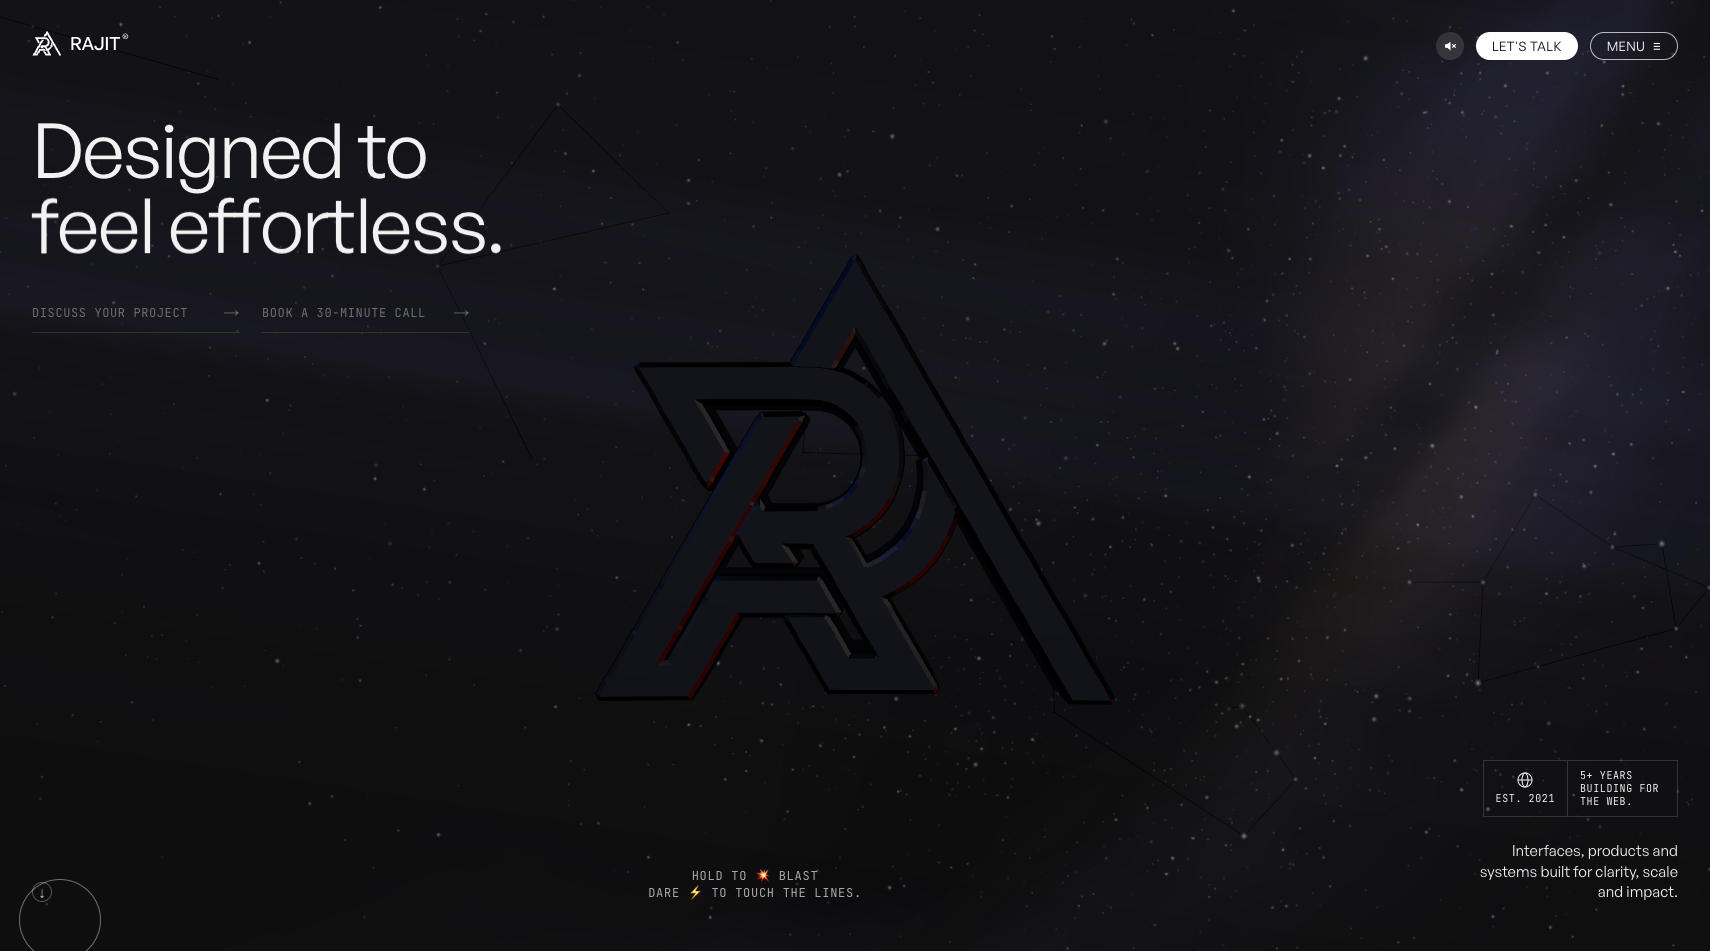
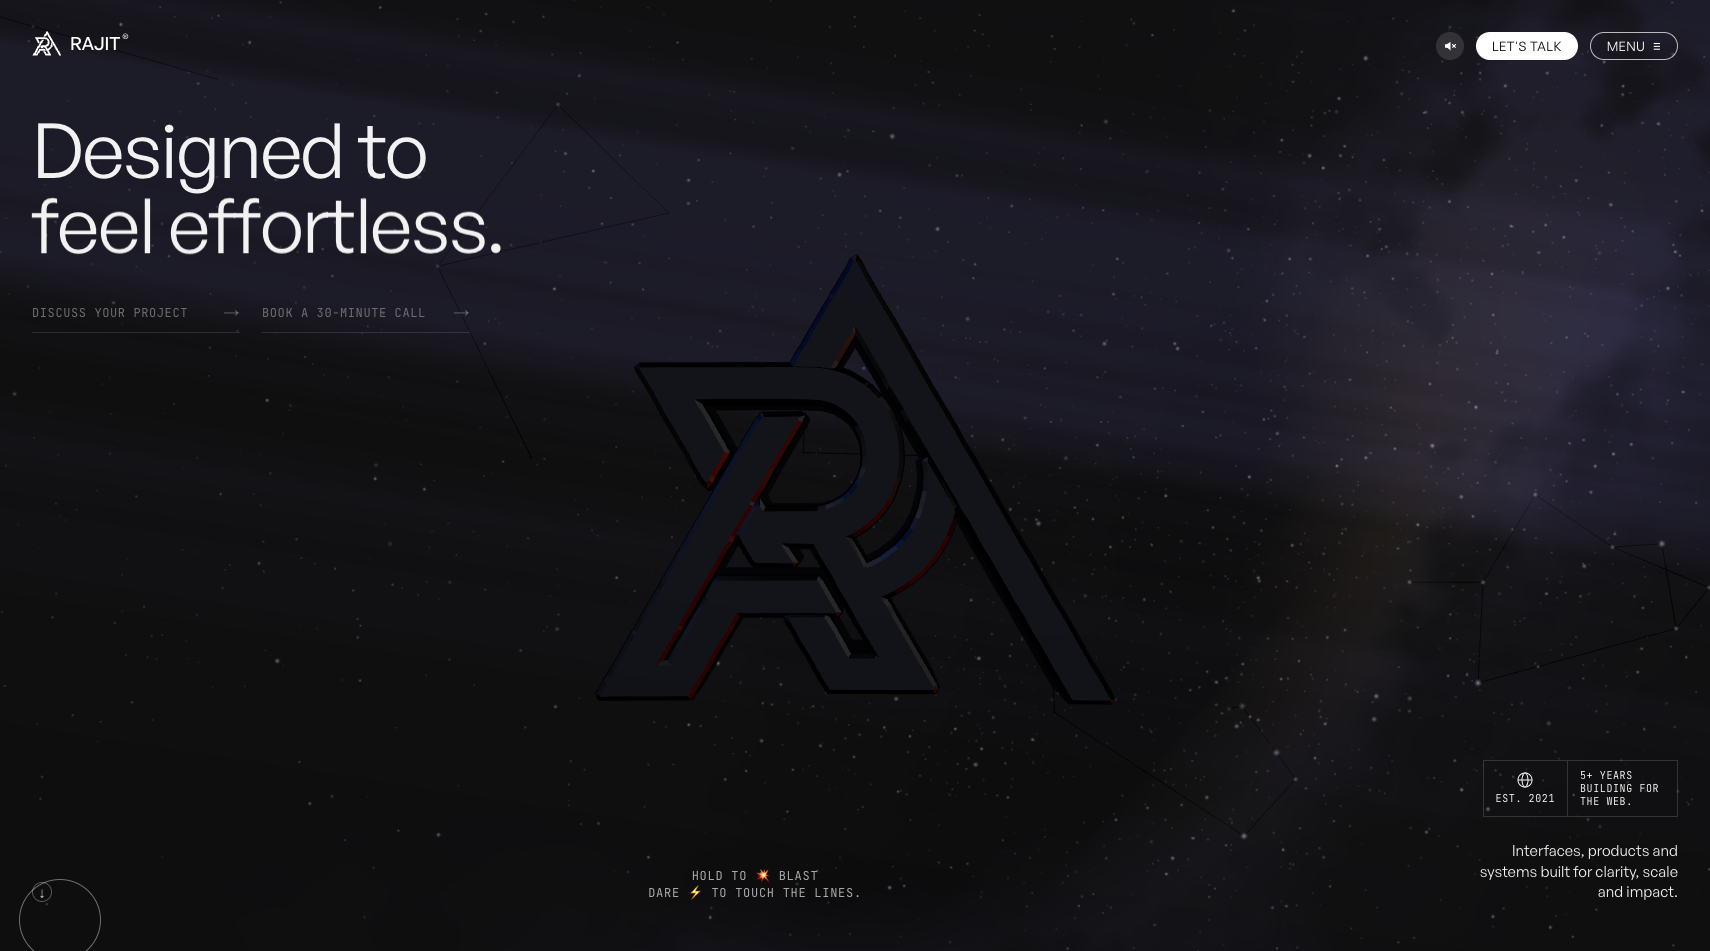
hero: remove the parallel streaks from the Milky Way
The band was drawing long, soft, parallel diagonal lines across the whole
page. Three separate causes, all of them producing the same artefact:

- The brightness profile depended on galactic latitude alone (a narrow
  core plus a wider halo), which is a set of nested stripes running the
  full length of the ribbon by construction. Replaced with one very wide
  wash that barely varies inside the frame, plus a longitude-localised
  bulge; all visible shape now comes from isotropic fBm clumping at three
  scales.
- The ribbon spanned +/-24 deg of latitude against a ~+/-24 deg visible
  field, so its own edge landed in frame as a hard line. Widened to 40.
- noise2 used the usual fract(sin(dot(p, k)) * big) hash. That is a plane
  wave sampled on a lattice: cells whose dot product differs by a period
  get near-identical values, so the field correlates along one fixed
  diagonal regardless of feature scale. Replaced with an integer bit-mix.

Opacity re-tuned 0.115 -> 0.075 for the wider ribbon's coverage.

Changed region(s): [[0.8368, 0.2135, 0.9608, 0.3659], [0.217, 0.2135, 0.2789, 0.2744], [0.093, 0.2135, 0.155, 0.2744]]

diff --git a/src/components/three/ConstellationField.tsx b/src/components/three/ConstellationField.tsx
@@ -439,22 +439,41 @@ function DeepField({ texture }: { texture: THREE.Texture }) {
  * sits where the galaxy actually does and drifts with everything else.
  */
 
-const MW_LAT = 24; // galactic latitude the ribbon spans, degrees
+/**
+ * Latitude the ribbon spans, degrees. The visible field is roughly ±24° tall,
+ * so at 24 the ribbon's own edge landed inside the frame and read as a hard
+ * boundary running the width of the page. Wider than the frame, there is no
+ * edge to see.
+ */
+const MW_LAT = 40;
 const MW_SEGS_L = 240;
-const MW_SEGS_B = 16;
+const MW_SEGS_B = 26;
 const MW_Z = -5.2;
 
-/** Smooth value noise, and fBm over it — enough for a soft cloud. */
-function noise2(x: number, y: number) {
+/**
+ * Smooth value noise, periodic in x. The period matters twice over: it keeps
+ * the texture from seaming where longitude wraps 360 to 0, and it lets the
+ * clump scale be chosen in whole degrees.
+ */
+function noise2(x: number, y: number, periodX: number) {
   const xi = Math.floor(x);
   const yi = Math.floor(y);
   const xf = x - xi;
   const yf = y - yi;
   const sx = xf * xf * (3 - 2 * xf);
   const sy = yf * yf * (3 - 2 * yf);
+  // Integer bit-mix, not the usual fract(sin(dot(p, k))) trick. That hash is a
+  // plane wave sampled on a lattice: neighbouring cells whose dot products land
+  // a whole period apart get near-identical values, so the field correlates
+  // along one fixed diagonal and the noise comes out as long parallel smears.
+  // Those smears were the streaks across the hero.
   const h = (a: number, b: number) => {
-    const n = Math.sin(a * 127.1 + b * 311.7) * 43758.5453;
-    return n - Math.floor(n);
+    const ax = ((a % periodX) + periodX) % periodX;
+    let s = Math.imul(ax | 0, 0x27d4eb2d) ^ Math.imul((b + 4096) | 0, 0x165667b1);
+    s = Math.imul(s ^ (s >>> 15), 0x2c1b3c6d);
+    s = Math.imul(s ^ (s >>> 12), 0x297a2d39);
+    s ^= s >>> 15;
+    return (s >>> 0) / 4294967296;
   };
   const a = h(xi, yi);
   const b = h(xi + 1, yi);
@@ -463,12 +482,12 @@ function noise2(x: number, y: number) {
   return a + (b - a) * sx + (c - a) * sy + (a - b - c + d) * sx * sy;
 }
 
-function fbm(x: number, y: number, octaves = 5) {
+function fbm(x: number, y: number, periodX: number, octaves = 5) {
   let v = 0;
   let amp = 0.5;
   let f = 1;
   for (let i = 0; i < octaves; i++) {
-    v += noise2(x * f, y * f) * amp;
+    v += noise2(x * f, y * f, periodX * f) * amp;
     f *= 2;
     amp *= 0.5;
   }
@@ -491,25 +510,34 @@ function createMilkyWayTexture() {
       const l = ((x + 0.5) / W) * 360;
       const dl = Math.abs(wrap180(l));
 
-      // Concentrated: a narrow bright core with a fainter wide halo, rather
-      // than one broad falloff. Spread thin the band reads as fog; concentrated
-      // it reads as a band with edges.
-      const core = Math.exp(-((b / 5.5) ** 2));
-      const halo = Math.exp(-((b / 13) ** 2)) * 0.35;
-      const bulge = Math.exp(-((dl / 30) ** 2)) * Math.exp(-((b / 11) ** 2));
-      let v = core * 0.75 + halo + bulge * 0.9;
+      // No narrow core. Anything that depends on latitude alone is, by
+      // construction, a stripe running the full length of the band — a bright
+      // core plus a halo draws several of them, nested, and that is what the
+      // streaks across the page actually were. This falloff is wide enough that
+      // it never varies much within the frame: it contributes a level, not a
+      // shape. All visible structure comes from the isotropic clumping below.
+      const wash = Math.exp(-((b / 34) ** 2));
+      const bulge = Math.exp(-((dl / 34) ** 2)) * Math.exp(-((b / 24) ** 2));
+      let v = wash * 0.55 + bulge * 0.5;
 
-      // Clumping, with enough range to give real star clouds rather than a
-      // smooth smear. Structure is what identifies the thing.
-      v *= 0.28 + 1.15 * fbm(l / 9, (b + MW_LAT) / 5);
+      // Isotropic clumping — the same degrees per noise unit on both axes, at
+      // three scales so the cloud has large soft masses as well as fine grain.
+      // Scales are chosen to divide 360 so the lattice wraps without a seam.
+      const clump =
+        0.5 * fbm(l / 12, b / 12, 30) +
+        0.32 * fbm(l / 6 + 17, b / 6 + 17, 60) +
+        0.18 * fbm(l / 2.4 + 31, b / 2.4 + 31, 150);
+      v *= 0.08 + 2.3 * clump;
 
-      // Dust lanes: the Great Rift, wandering along the plane and cutting deep.
-      const lr = l * DEG;
-      const riftCentre = 1.6 * Math.sin(lr * 1.3 + 0.4) + 1.0 * Math.sin(lr * 2.9 + 1.7);
-      const riftWidth = 3.0 + 1.4 * Math.sin(lr * 0.8);
-      const t = (b - riftCentre) / riftWidth;
-      const rift = Math.exp(-t * t) * (0.72 + 0.25 * Math.exp(-((dl / 55) ** 2)));
-      v *= 1 - rift * (0.7 + 0.3 * fbm(l / 5 + 40, b / 3 + 40));
+      // Dust as patches rather than a lane. The Great Rift is a real continuous
+      // feature, but drawn across a band this wide it reads as one long smear,
+      // which is exactly the artefact being removed here.
+      const dust = THREE.MathUtils.smoothstep(
+        fbm(l / 4.5 + 40, b / 4.5 + 40, 80),
+        0.40,
+        0.80,
+      );
+      v *= 1 - dust * 0.72;
 
       // Contrast curve: push the gaps down so the clouds stand out, instead of
       // lifting everything and washing the hero.
@@ -632,7 +660,7 @@ function MilkyWay({ skyHover }: { skyHover: React.RefObject<number> }) {
         map={built.texture}
         vertexColors
         transparent
-        opacity={0.115}
+        opacity={0.075}
         depthWrite={false}
         side={THREE.DoubleSide}
         blending={THREE.AdditiveBlending}

diff --git a/CLAUDE.md b/CLAUDE.md
@@ -138,14 +138,32 @@ re-measuring:
 
    Do not rebuild the glow out of sprites. That was tried twice: accumulating soft points cannot
    look smooth, because the overlap needed to blend them makes each one individually visible first,
-   and it came out as cotton wool. One ribbon with a procedural cloud texture — fBm clumping, Great
-   Rift dust lanes cut into it — is both smoother and far cheaper.
+   and it came out as cotton wool. One ribbon with a procedural cloud texture — fBm clumping, dust
+   patches cut into it — is both smoother and far cheaper.
 
-   **Apparency comes from concentration, contrast and colour — not from opacity.** The band was
-   once invisible in practice, and the fix was not brightness: a narrow bright core with a fainter
-   halo instead of one broad falloff, a contrast curve pushing the gaps down so the star clouds
-   stand out, and colour doing the identifying (violet through the band, amber confined to the
-   bulge — the real core is yellowed by dust). Amber must stay tight; reusing the bulge's own
+   **No streaks. Nothing in the texture may be a long parallel line.** This was the single hardest
+   note to satisfy and it had three independent causes, all of which have to stay fixed:
+
+   * *Latitude-only brightness profiles are stripes by construction.* A narrow bright core plus a
+     wider halo draws several nested bands running the full length of the ribbon, which on a
+     diagonal band is exactly "streaks of colour across the page". Use one very wide `wash`
+     (`b/34`) that barely varies inside the frame plus a longitude-localised `bulge` — a blob, not
+     a line — and let the clumping carry all visible shape.
+   * *The ribbon's own edge.* At `MW_LAT = 24` the band ended inside the ~±24° visible field and its
+     boundary read as a hard line. `MW_LAT = 40` puts the edge off-frame.
+   * *`fract(sin(dot(p, k)) * big)` is not a hash.* It is a plane wave sampled on a lattice, so
+     cells whose dot product differs by a period get near-identical values and the field correlates
+     along one fixed diagonal — long parallel smears, independent of feature scale. `noise2` uses an
+     integer bit-mix instead. Do not put the sine hash back.
+
+   Clump noise must be **isotropic**: the same degrees per noise unit on both axes. Sampling
+   longitude coarser than latitude stretches every feature along the band. Noise scales must divide
+   360 so the lattice wraps without a seam at longitude 0.
+
+   **Apparency comes from contrast and colour — not from opacity.** The band was once invisible in
+   practice, and the fix was not brightness: a contrast curve pushing the gaps down so the star
+   clouds stand out, and colour doing the identifying (violet through the band, amber confined to
+   the bulge — the real core is yellowed by dust). Amber must stay tight; reusing the bulge's own
    brightness falloff for it spread warm over everything and the violet never showed.
 
    The mark's protection is **local**. The ribbon has its own wider, softer moat
@@ -155,7 +173,8 @@ re-measuring:
    Judge the level by **diffuse level** (16px box-average peak, currently ~44 at the core against
    the mark's ~62), never by total light — a wide low-contrast wash accumulates enormous total
    light while staying perceptually subordinate. Opacity is steeply nonlinear: 0.5 obliterated the
-   hero, 0.115 is right.
+   hero. It also has to be re-tuned whenever the ribbon's coverage changes — widening `MW_LAT` to
+   40 to hide the band edge meant dropping opacity 0.115 → 0.075 to hold the same level.
 
 **Measuring the sky.** Exclude the mark box, the headline block **and the EST badge** — the badge is
 bright UI and silently inflated every sky measurement until it was masked. Total light is the right
